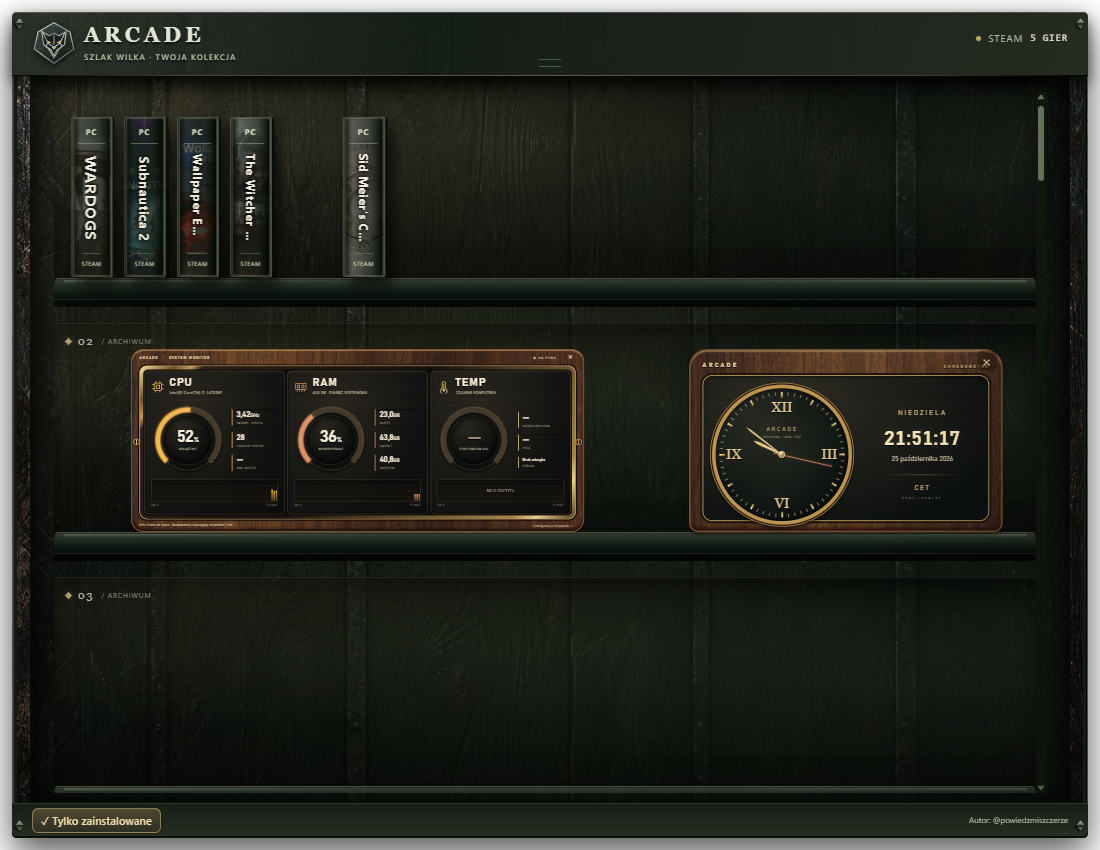
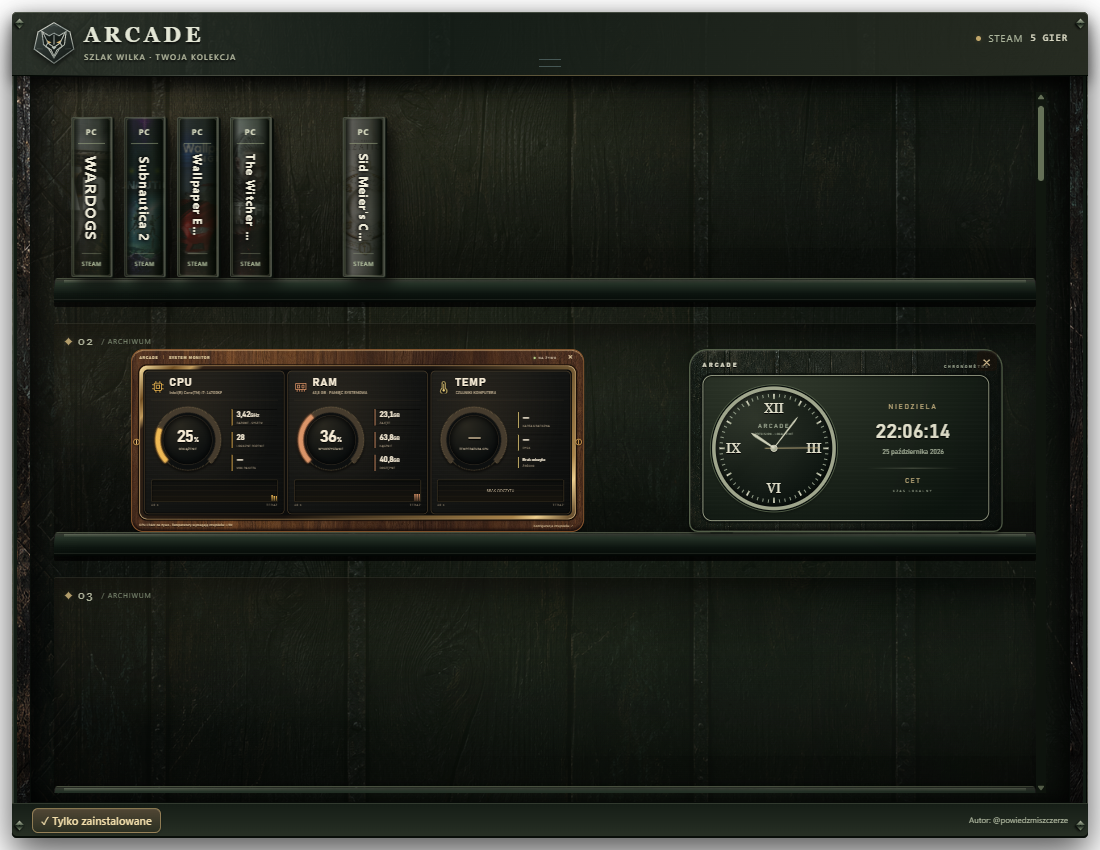
Release 0.17.1 theme-matched clock

Changed region(s): [[0.6182, 0.3976, 0.9273, 0.6424], [0.1236, 0.4588, 0.1855, 0.52]]

diff --git a/README.md b/README.md
@@ -19,7 +19,7 @@ ARCADE zamienia listę gier w przestrzenną kolekcję pudełek na półkach. Ust
 
 <img src="docs/screenshots/czort-collection.png" alt="Widget ARCADE w motywie Gaming Night Shift — ciemna szafka, podświetlenie i pudełka gier Steam" width="650">
 
-## 0.17.0 — usunięcie kociej serii inspirowanej grami
+## 0.17.1 — usunięcie kociej serii inspirowanej grami
 
 - Usunięte figurki Zephyr, Sora, Nyx, Brim, Kai, Luna, Mori, Pix, Neko i Vyra z menu, katalogu, animacji i paczki aplikacji.
 - Pozostają realistyczny Czort w sześciu pozach oraz sześciu szczurzych antybohaterów.
@@ -179,7 +179,7 @@ Na półce pozostaje jeden widok: **grzbiety z tytułami**. Widok okładek przod
 
 ## Instalator i Aurora Circuit
 
-Pobierz **ARCADE-Setup-0.17.0-win-x64.exe** z najnowszego wydania. Polski instalator dodaje skróty i wpis do odinstalowania; nie wymaga konta administratora. Opcjonalnie włącza start z Windows.
+Pobierz **ARCADE-Setup-0.17.1-win-x64.exe** z najnowszego wydania. Polski instalator dodaje skróty i wpis do odinstalowania; nie wymaga konta administratora. Opcjonalnie włącza start z Windows.
 
 **Aurora Circuit** to czwarty motyw: ruchome światło zorzy, delikatne cząsteczki, obwody oraz sygnały LED na półkach. Włączysz go przez **ikonę obok zegara → Motyw graficzny → Animowany · Aurora Circuit**. Animacje respektują systemowe ograniczenie ruchu i pauzują po ukryciu okna.
 
@@ -206,12 +206,12 @@ Większe pudełka i dopasowane do długości tytułów napisy. Przeciągnij gór
 
 ## Pobierz i uruchom
 
-1. Przejdź do **[Releases](https://github.com/codewojcik-arch/arcade-game-shelf/releases/latest)** i pobierz **ARCADE-Setup-0.17.0-win-x64.exe**.
+1. Przejdź do **[Releases](https://github.com/codewojcik-arch/arcade-game-shelf/releases/latest)** i pobierz **ARCADE-Setup-0.17.1-win-x64.exe**.
 2. Uruchom instalator, wybierz folder i opcjonalne skróty oraz autostart.
 3. Po instalacji uruchom **ARCADE** z menu Start lub pulpitu.
 4. Ustawienia, motywy, figurki i zamknięcie znajdziesz pod ikoną obok zegara Windows.
 
-Alternatywnie pobierz **ARCADE-0.17.0-win-x64.zip**, wypakuj cały folder i uruchom ARCADE.exe. Samo EXE wymaga pozostałych plików paczki. Instalator zachowuje lokalny folder cache podczas aktualizacji i odinstalowania; może zawierać ustawienia oraz zapisane połączenie Steam i sesję GOG. Możesz usunąć ten folder samodzielnie po odinstalowaniu.
+Alternatywnie pobierz **ARCADE-0.17.1-win-x64.zip**, wypakuj cały folder i uruchom ARCADE.exe. Samo EXE wymaga pozostałych plików paczki. Instalator zachowuje lokalny folder cache podczas aktualizacji i odinstalowania; może zawierać ustawienia oraz zapisane połączenie Steam i sesję GOG. Możesz usunąć ten folder samodzielnie po odinstalowaniu.
 
 **Wymagania:** Windows 10/11 64-bit, Steam i internet do pobrania okładek. Runtime jest dołączony — nie instalujesz osobno Node.js. Okna Full HD, 1440p i 4K są objęte testami układu. Instalator nie ma jeszcze komercyjnego podpisu cyfrowego; Windows może pokazać nieznanego wydawcę. Pobieraj z oficjalnego repozytorium.
 
@@ -273,3 +273,6 @@ W menu obok zegara włącz **Zegar na półce**. Drewniano-mosiężny zegar ma t
 
 Zegar i monitor można przeciągać za górny pasek między półkami. Gdy stoją obok siebie, dopasowują rozmiar do dostępnego miejsca. Pozycje są zachowywane po restarcie.
 
+
+
+Obudowa zegara i tarcza automatycznie dopasowują materiały oraz kolory do motywu półki: Klasyczny, Orzech i mosiądz, Night Shift, Aurora Circuit lub Szlak Wilka.

diff --git a/CHANGELOG.md b/CHANGELOG.md
@@ -1,5 +1,11 @@
 # Historia zmian
 
+## 0.17.1 — Dopasowanie zegara do półki
+
+- Tarcza zachowuje idealnie okrągłe proporcje i mieści się w ramce obok odczytu cyfrowego.
+- Obudowa, tło tarczy, metal, wskazówki i napisy dopasowują się do wszystkich pięciu motywów półki.
+- Motyw zmienia się od razu, bez zmiany pozycji zegara.
+
 ## 0.17.0 — Zegar i przestawianie widgetów
 
 - Nowy zegar w drewnie i mosiądzu: analogowa tarcza, płynny sekundnik, cyfrowa godzina, data i strefa czasowa Windows.
@@ -313,6 +319,7 @@ Testy: import wielostronicowy, ukryte gry, zmiana konta, tryb offline, sprawdzen
 - Animacja pudełka, płyty i napędu PC z lat 90.
 - Kot i szczur, dodatkowe pozy, spacer i strącanie pudełka łapką.
 - Autostart, zapis układu, menu w zasobniku i podpis autora.
+
 
 
 
